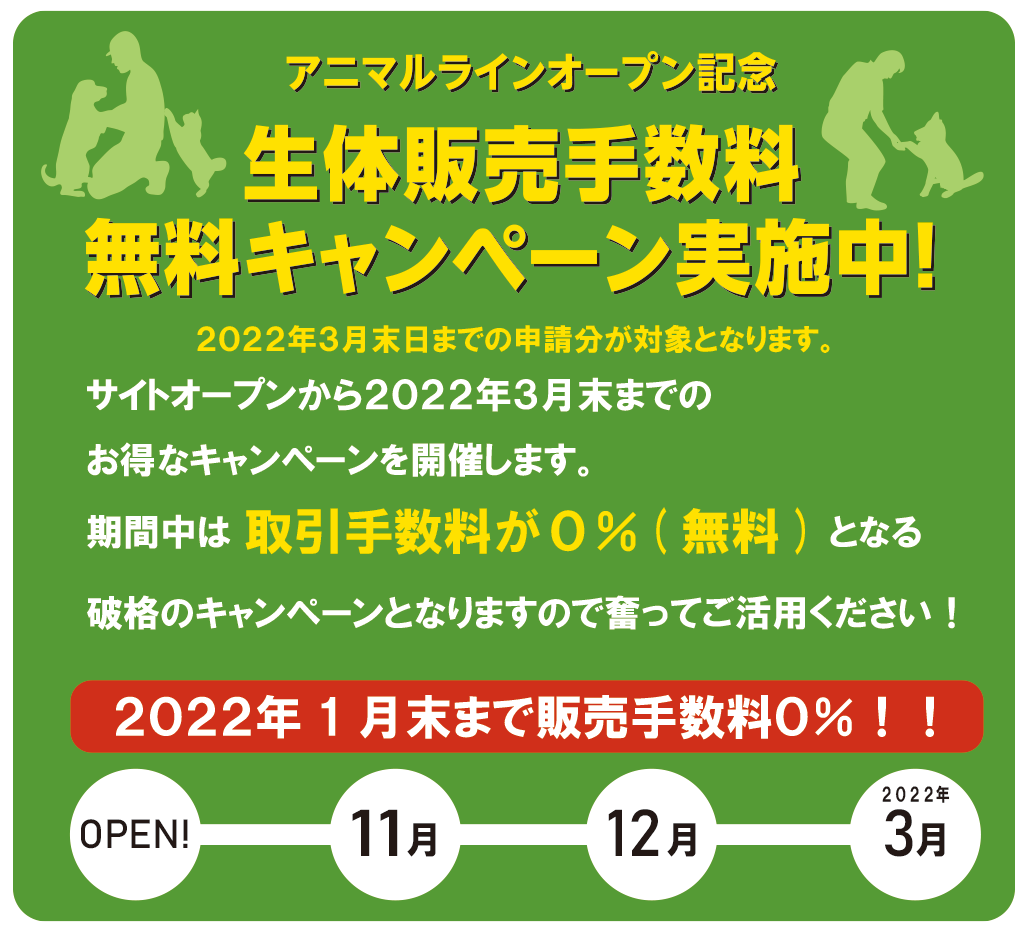
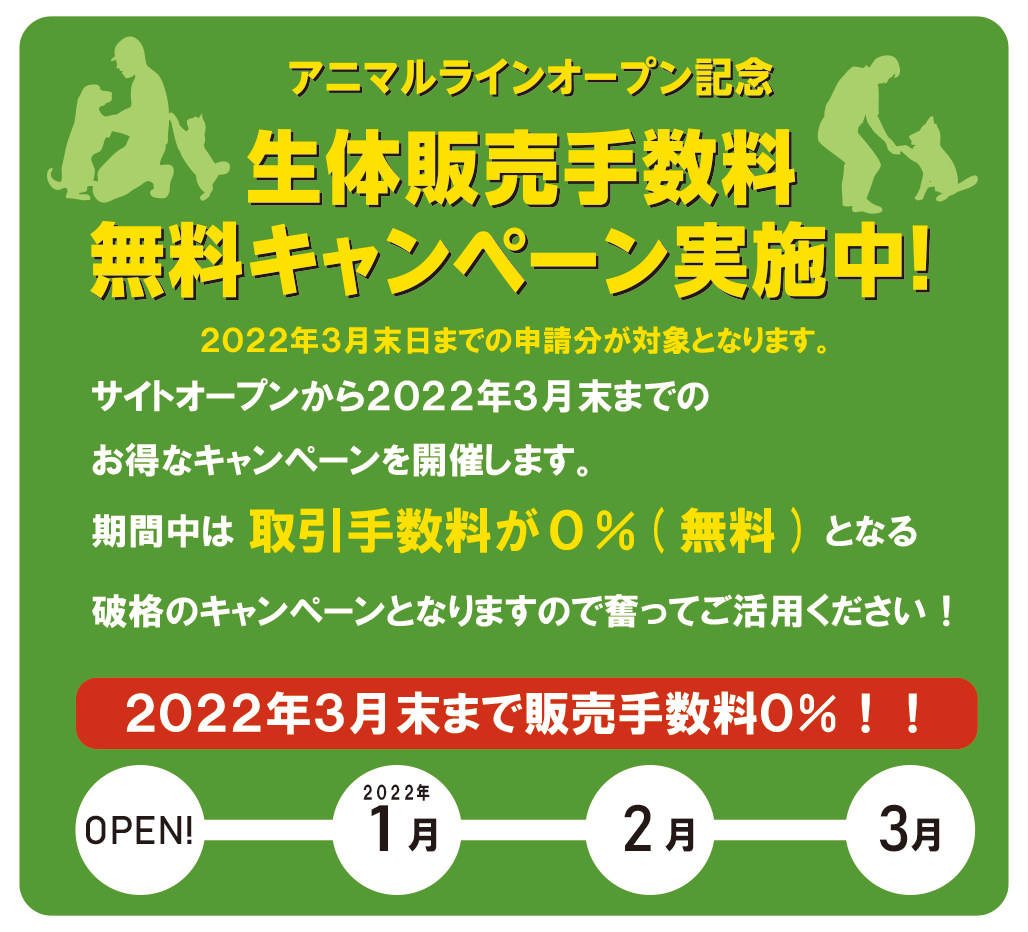
文言など変更

diff --git a/app/Customize/Service/MailService.php b/app/Customize/Service/MailService.php
@@ -1046,15 +1046,15 @@ class MailService
      * @param array $data
      * @return int
      */
-    public function sendMailContractCancel(\Eccube\Entity\Customer $Customer, array $data)
+    public function sendMailContractCancel(\Eccube\Entity\Customer $Customer, $message)
     {
         $body = $this->twig->render('Mail/mail_contract_cancel.twig', [
             'BaseInfo' => $this->BaseInfo,
-            'data' => $data
+            'message' => $message
         ]);
 
         $message = (new \Swift_Message())
-            ->setSubject('[' . $this->BaseInfo->getShopName() . '] 審査結果通知')
+            ->setSubject('[' . $this->BaseInfo->getShopName() . '] 取引不成立通知')
             ->setFrom([$this->BaseInfo->getEmail01() => $this->BaseInfo->getShopName()])
             ->setTo([$Customer->getEmail()])
             ->setBcc($this->BaseInfo->getEmail01())
@@ -1066,7 +1066,48 @@ class MailService
         if (!is_null($htmlFileName)) {
             $htmlBody = $this->twig->render($htmlFileName, [
                 'BaseInfo' => $this->BaseInfo,
-                'data' => $data
+                'message' => $message
+            ]);
+
+            $message
+                ->setContentType('text/plain; charset=UTF-8')
+                ->setBody($body, 'text/plain')
+                ->addPart($htmlBody, 'text/html');
+        } else {
+            $message->setBody($body);
+        }
+
+        return $this->mailer->send($message, $failures);
+    }
+
+    /**
+     * Send cancel contract mail.
+     *
+     * @param \Eccube\Entity\Customer $Customer
+     * @param array $data
+     * @return int
+     */
+    public function sendMailContractComplete(\Eccube\Entity\Customer $Customer, $message)
+    {
+        $body = $this->twig->render('Mail/mail_contract_complete.twig', [
+            'BaseInfo' => $this->BaseInfo,
+            'message' => $message
+        ]);
+
+        $message = (new \Swift_Message())
+            ->setSubject('[' . $this->BaseInfo->getShopName() . '] 取引成立通知')
+            ->setFrom([$this->BaseInfo->getEmail01() => $this->BaseInfo->getShopName()])
+            ->setTo([$Customer->getEmail()])
+            ->setBcc($this->BaseInfo->getEmail01())
+            ->setReplyTo($this->BaseInfo->getEmail03())
+            ->setReturnPath($this->BaseInfo->getEmail04());
+
+        // HTMLテンプレートが存在する場合
+        $htmlFileName = $this->getHtmlTemplate('Mail/mail_contract_complete.twig');
+        if (!is_null($htmlFileName)) {
+            $htmlBody = $this->twig->render($htmlFileName, [
+                'BaseInfo' => $this->BaseInfo,
+                'message' => $message
             ]);
 
             $message

diff --git a/app/Customize/Controller/Breeder/BreederMemberContactController.php b/app/Customize/Controller/Breeder/BreederMemberContactController.php
@@ -174,6 +174,7 @@ class BreederMemberContactController extends AbstractController
             $breederContact = (new BreederContacts())
                 ->setMessageFrom(AnilineConf::MESSAGE_FROM_USER)
                 ->setContactDescription('今回の取引は非成立となりました。')
+                ->setIsReading(0)
                 ->setSendDate(Carbon::now())
                 ->setBreederContactHeader($msgHeader);
 
@@ -182,8 +183,9 @@ class BreederMemberContactController extends AbstractController
             $entityManager->persist($breederContact);
             $entityManager->flush();
 
-            $this->mailService->sendMailContractCancel($msgHeader->getCustomer(), []);
-            return $this->redirectToRoute('breeder_message');
+            $breeder = $this->customerRepository->find($msgHeader->getBreeder()->getId());
+            $this->mailService->sendMailContractCancel($breeder, $breederContact);
+            return $this->redirectToRoute('breeder_message',['id' => $request->get('id'), 'isScroll' => true]);
         }
 
         $user = $this->getUser();
@@ -253,6 +255,9 @@ class BreederMemberContactController extends AbstractController
                     $entityManager = $this->getDoctrine()->getManager();
                     $entityManager->persist($contract);
                     $entityManager->flush();
+
+                    $breeder = $this->customerRepository->find($msgHeader->getBreeder()->getId());
+                    $this->mailService->sendMailContractComplete($breeder,[]);
 
                     return $this->redirectToRoute('breeder_contract_complete', ['pet_id' => $pet_id]);
             }

diff --git a/app/Customize/Entity/BreederEvaluations.php b/app/Customize/Entity/BreederEvaluations.php
@@ -35,11 +35,6 @@ class BreederEvaluations
     private $evaluation_value;
 
     /**
-     * @ORM\Column(name="evaluation_title", type="string", length=255, nullable=false)
-     */
-    private $evaluation_title;
-
-    /**
      * @ORM\Column(name="evaluation_message", type="text", nullable=false)
      */
     private $evaluation_message;
@@ -88,18 +83,6 @@ class BreederEvaluations
     public function setEvaluationValue(int $evaluation_value): self
     {
         $this->evaluation_value = $evaluation_value;
-
-        return $this;
-    }
-
-    public function getEvaluationTitle(): ?string
-    {
-        return $this->evaluation_title;
-    }
-
-    public function setEvaluationTitle(string $evaluation_title): self
-    {
-        $this->evaluation_title = $evaluation_title;
 
         return $this;
     }

diff --git a/app/Customize/Form/Type/Breeder/BreederEvaluationsType.php b/app/Customize/Form/Type/Breeder/BreederEvaluationsType.php
@@ -42,19 +42,6 @@ class BreederEvaluationsType extends AbstractType
                     new Assert\NotBlank()
                 ]
             ])
-            ->add('evaluation_title', TextType::class, [
-                'required' => true,
-                'attr' => [
-                    'maxlength' => $this->eccubeConfig['eccube_stext_len'],
-                ],
-                'constraints' => [
-                    new Assert\Length([
-                        'min' => 0,
-                        'max' => $this->eccubeConfig['eccube_stext_len'],
-                    ]),
-                    new Assert\NotBlank()
-                ]
-            ])
             ->add('evaluation_message', TextareaType::class, [
                 'required' => true,
                 'constraints' => [

diff --git a/app/Customize/Controller/Adoption/AdoptionController.php b/app/Customize/Controller/Adoption/AdoptionController.php
@@ -111,7 +111,7 @@ class AdoptionController extends AbstractController
     /**
      * Page Adoption
      *
-     * @Route("/adoption/", name="adoption_top")
+     * @Route("/adoption_reg/", name="adoption_top_reg")
      * @Template("animalline/adoption/reg_index_tmp.twig")
      */
     public function breeder_index_reg(Request $request)
@@ -122,7 +122,7 @@ class AdoptionController extends AbstractController
     /**
      * adoption index
      *
-     * @Route("/adoption_tmp/", name="adoption_top_tmp")
+     * @Route("/adoption/", name="adoption_top")
      * @Template("animalline/adoption/index.twig")
      */
     public function adoption_index(Request $request)

diff --git a/app/Customize/Controller/Breeder/BreederController.php b/app/Customize/Controller/Breeder/BreederController.php
@@ -127,7 +127,7 @@ class BreederController extends AbstractController
     /**
      * Page Breeder
      *
-     * @Route("/breeder/", name="breeder_top")
+     * @Route("/breeder_reg/", name="breeder_top_reg")
      * @Template("animalline/breeder/reg_index.twig")
      */
     public function breeder_index_reg(Request $request)
@@ -138,7 +138,7 @@ class BreederController extends AbstractController
     /**
      * Page Breeder
      *
-     * @Route("/breeder_tmp/", name="breeder_top_tmp")
+     * @Route("/breeder/", name="breeder_top")
      * @Template("animalline/breeder/index.twig")
      */
     public function breeder_index(Request $request)

diff --git a/app/Customize/Controller/CustomTopController.php b/app/Customize/Controller/CustomTopController.php
@@ -94,7 +94,7 @@ class CustomTopController extends AbstractController
     public function animalline_index()
     {
         $ListNews = $this->NewsRepository->getList();
-        return $this->redirectToRoute("breeder_top");
+        //return $this->redirectToRoute("breeder_top");
         
         return [
             'ListNews' => $ListNews

diff --git a/app/Customize/Entity/BreederContacts.php b/app/Customize/Entity/BreederContacts.php
@@ -57,7 +57,7 @@ class BreederContacts
     private $update_date;
 
     /**
-     * @ORM\Column(name="is_reading", type="integer", nullable=false)
+     * @ORM\Column(name="is_reading", type="integer", options={"default" = 0}, nullable=false)
      */
     private $is_reading;
 
